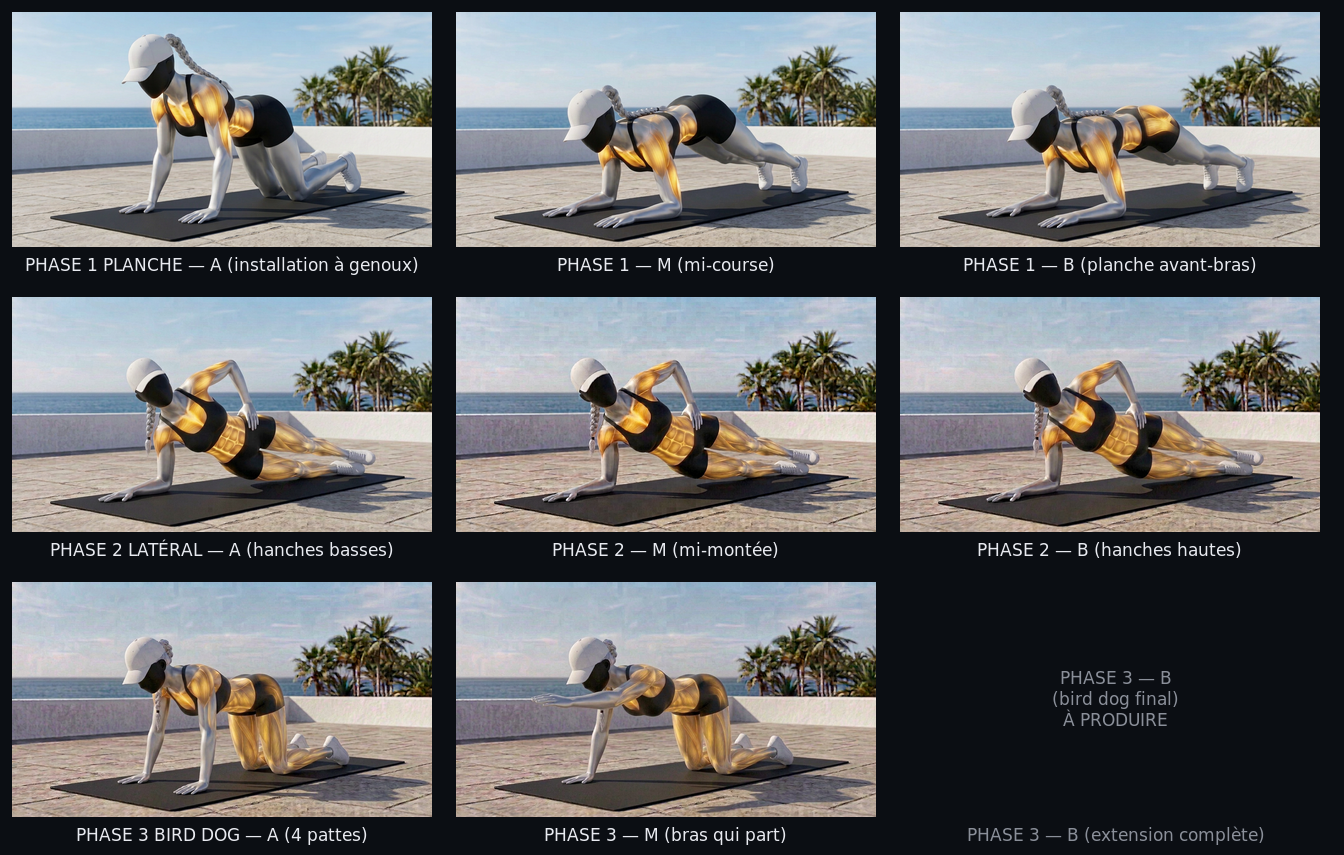
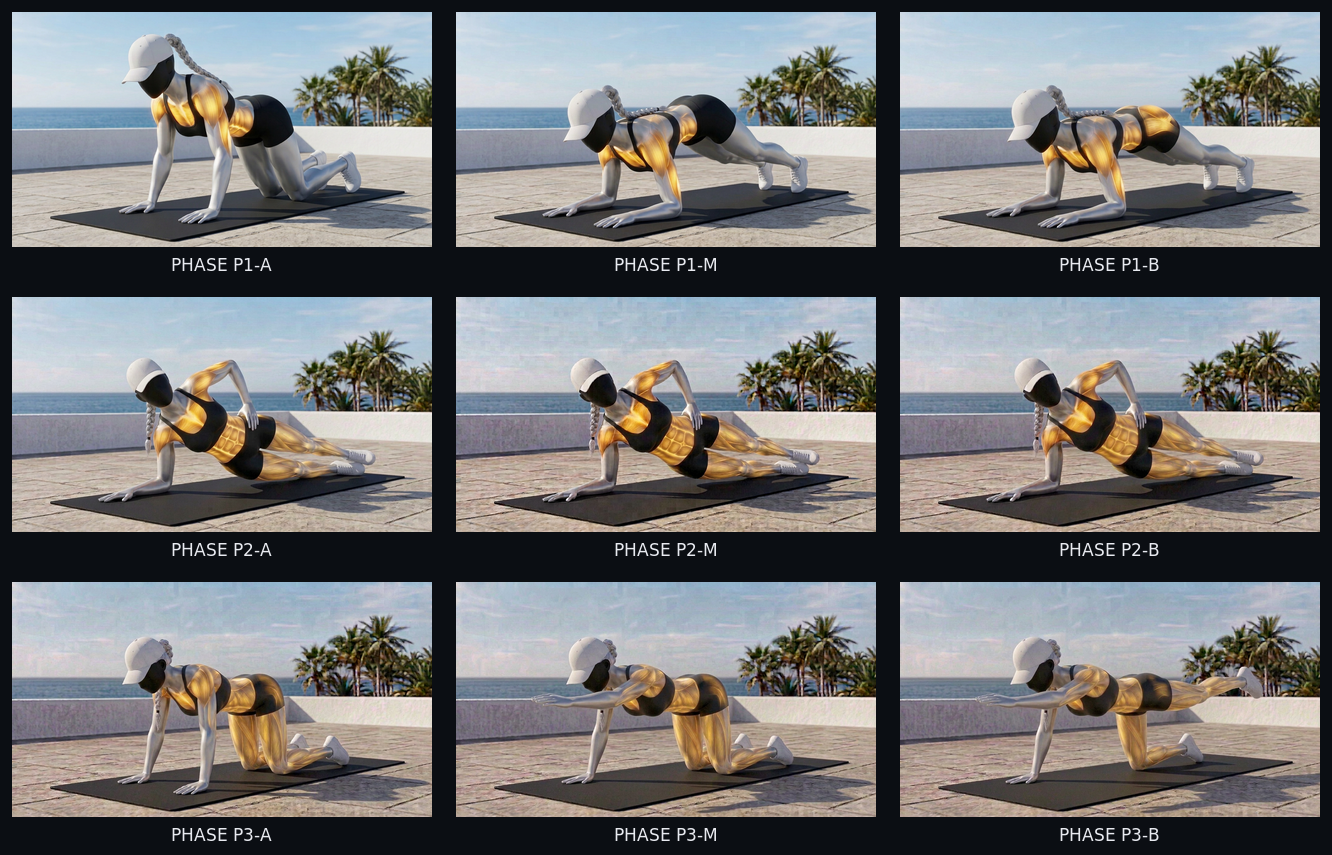
feat(animations): LOT 3 FEMME — circuit gainage COMPLET (9/9), animation composite livrée
Planche validée par le user (« valider, poursuis »). La 9e position manquante (bird dog,
extension complète bras droit + jambe gauche opposée, dos plat, bassin stable) a été
produite et chaînée sur la mi-course de la phase 3.

Livrables :
- themeA/femme/circuit-gainage-3poses.gif — animation COMPOSITE, 460x257, 16 frames ;
- themeA/femme/LOT3F-circuit-gainage-femme.gif — planche 1420x265, 3 colonnes (une par
  phase : planche / gainage latéral / bird dog), 4 frames, sans -layers optimize ;
- themeA/femme/LOT3F-circuit-gainage-PLANCHE-FINALE.jpg + PLANCHE-TRAVAIL…png — contrôle.

Convention de boucle (à confirmer par le user) : le format du chantier A→M→B→M ne décrit
que 3 positions ; pour 3 phases enchaînées, la boucle est A→M→B sur chaque phase puis
retour arrière jusqu'au départ (P1A-M-B → P2A-M-B → P3A-M-B → P2M-A → P1M-A), afin
d'éviter un saut du mannequin entre la fin du circuit et son recommencement.

Contrôles : format 1376x768 pour les 9 positions sources (aucun portrait) ; RMSE
P1 A→M 0,158 · P1 M→B 0,081 · P2 A→M 0,053 · P2 M→B 0,035 · P3 A→M 0,057 · P3 M→B 0,060
(tous > 0,030) ; anti-doublon : 0 doublon sur les 59 GIF du chantier, 0 sur les 9 PNG.

Technique re-vérifiée en ligne (règle 14, demande du user) : bird dog — à quatre pattes,
mains sous les épaules, genoux sous les hanches, extension du bras et de la jambe
OPPOSÉS, hanches et épaules de niveau, « un verre d'eau en équilibre sur le bas du dos »
[…]

diff --git a/yanis-fitness-evolution/animations/SUIVI.md b/yanis-fitness-evolution/animations/SUIVI.md
@@ -442,11 +442,27 @@ image (≈ 9 images par circuit → **1 circuit par tour**).
 | 6 | Gainage latéral | B — hanches hautes, ligne droite chevilles-épaules | `_sources/LOT3F/circuit-gainage-P2-B.png` | ✅ |
 | 7 | Bird dog | A — à quatre pattes, dos plat | `_sources/LOT3F/circuit-gainage-P3-A.png` | ✅ |
 | 8 | Bird dog | M — bras droit qui s'allonge vers l'avant | `_sources/LOT3F/circuit-gainage-P3-M.png` | ✅ |
-| 9 | Bird dog | B — bras droit + jambe gauche tendus à l'horizontale | — | ⬜ **drapeau rouge** |
+| 9 | Bird dog | B — bras droit + jambe gauche tendus à l'horizontale | `_sources/LOT3F/circuit-gainage-P3-B.png` | ✅ |
 
-**Planche de travail (8/9) :** `themeA/femme/_sources/LOT3F/PLANCHE-TRAVAIL-LOT3F-circuit-gainage.png`
-— affichée au user pour son œil (règle 7). La 9ᵉ position étant absente, cette planche est
-un **aperçu de travail**, pas la planche de livraison.
+**LIVRÉ — 9 / 9 positions** (2026-10-07, 2ᵉ tour) :
+
+| Livrable | Fichier |
+| --- | --- |
+| Animation composite FEMME | `themeA/femme/circuit-gainage-3poses.gif` (**460×257, 16 frames** — A→M→B sur chacune des 3 phases, puis retour arrière jusqu'à A) |
+| Planche 3 colonnes | `themeA/femme/LOT3F-circuit-gainage-femme.gif` (**1420×265, 4 frames** — 1 colonne par phase : planche / latéral / bird dog) |
+| Planche de contrôle statique | `themeA/femme/LOT3F-circuit-gainage-PLANCHE-FINALE.jpg` |
+| Les 9 positions | `themeA/femme/_sources/LOT3F/circuit-gainage-P*.png` + `PLANCHE-TRAVAIL-…png` |
+
+⚠ **Note d'assemblage** : le format du chantier « A→M→B→M » ne décrit correctement que
+**3 positions**. Pour un circuit composite de 3 phases (9 positions), la boucle retenue est
+**A→M→B sur chaque phase puis retour à la position de départ** :
+P1 A-M-B → P2 A-M-B → P3 A-M-B → P2 M-A → P1 M-A. Cela donne un **aller-retour propre,
+sans saut entre la fin de la phase 3 et le début de la phase 1** (un retour direct B→A
+aurait produit un téléportage du mannequin). Le générateur `scripts/build-gif-lot.sh`
+ne sait produire que la boucle à 3 positions : l'assemblage du composite a donc été fait
+avec la même chaîne d'outils (`convert`, `-delay 130/110`, `-colors 96`, `-layers
+optimize` sur le GIF, **jamais** sur la planche), en conservant les paramètres validés.
+**Si le user veut une autre convention de boucle, elle est à trancher.**
 
 ### Budget d'images IA du tour — 10 / 10, aucune image perdue en silence
 
@@ -533,8 +549,8 @@ légenées). Constats :
    ⚠ si la phase 3 est ajoutée à part, utiliser la même chaîne d'images et **jamais
    `-layers optimize` sur la planche** ;
 3. afficher la planche définitive → validation user ;
-4. **puis seulement** produire `circuit-abdominaux` en FEMME (crunch → relevés de jambes
-   → gainage, 9 images, 1 circuit par tour) ;
+4. ✅ **FAIT** — `circuit-abdominaux` en FEMME lancé dans le même tour (crunch → relevés de
+   jambes → gainage, 9 images) ;
 5. le remplacement des fichiers **HOMME** (aujourd'hui en version simple) ne se fera
    **qu'après accord explicite du user** (règle 2).
 

diff --git a/PASSATION-ANIMATIONS.md b/PASSATION-ANIMATIONS.md
@@ -282,8 +282,14 @@ Ces dossiers évitent de repayer des images déjà générées.
 2. ✅ **FAIT** — r**attrapage de la fille sur les lots 1 et 2** :
    `dead-bug`, `bird-dog`, `gainage-lateral`, `mountain-climbers`, `dead-bug-rotation`,
    `gainage-lateral-dyn` existent en HOMME **et** FEMME.
-3. 🟠 **LOT 3 EN COURS — `circuit-gainage` FEMME : 8 / 9 positions produites** (commit
-   `56ec4ce`), chaînées en 3 phases :
+3. ✅ **FAIT le 2026-10-07 — LOT 3 FEMME `circuit-gainage` : 9 / 9 positions, livré.**
+   Animation composite `themeA/femme/circuit-gainage-3poses.gif` (460×257, 16 frames) +
+   planche 3 colonnes `themeA/femme/LOT3F-circuit-gainage-femme.gif` (1420×265).
+   **Boucle retenue** : A→M→B sur chacune des 3 phases, puis retour arrière jusqu'au
+   départ (évite un saut entre la fin du circuit et son début) — convention à confirmer
+   par le user.
+   `circuit-abdominaux` FEMME enchaîné dans le même tour (voir ci-dessous).
+   Rappel du déroulé (3 phases chaînées) :
    - **phase 1 planche** : A installation à genoux → M jambes qui s'allongent → B planche
      complète sur avant-bras ;
    - **phase 2 gainage latéral** : A flanc gauche hanches basses → M bassin à mi-hauteur →
@@ -291,10 +297,11 @@ Ces dossiers évitent de repayer des images déjà générées.
    - **phase 3 bird dog** : A quatre pattes → M bras droit qui s'allonge → **B (extension
      complète) REFUSÉE par la limite des 10 images IA : à produire en ouverture du
      prochain tour.**
-   **Contrôle du 2026-10-07 (2ᵉ passe, à la demande du user)** — voir le détail et les
-   réserves en § 8 et dans `SUIVI.md` ; l'aperçu est **dans le dépôt** :
-   `animations/themeA/femme/_sources/LOT3F/PLANCHE-TRAVAIL-LOT3F-circuit-gainage.png`
-   (+ `GRILLE-CHECK-LOT3F-circuit-gainage.jpg`).
+   **Contrôle du 2026-10-07 (2ᵉ passe, à la demande du user)** — planche validée par le
+   user (« valider, poursuis ») malgré les réserves listées en § 8 ; l'aperçu est **dans
+   le dépôt** :
+   `animations/themeA/femme/LOT3F-circuit-gainage-PLANCHE-TRAVAIL.png`
+   (+ `GRILLE-CHECK-LOT3F-circuit-gainage.jpg`, `LOT3F-circuit-gainage-PLANCHE-FINALE.jpg`).
    Corrections identifiées et **à trancher par le user** avant de poursuivre :
    (a) P1-A : la main gauche est déjà posée au sol devant le genou, ce qui rend la
    séquence d'installation confuse pour un mouvement à quatre pattes ;
